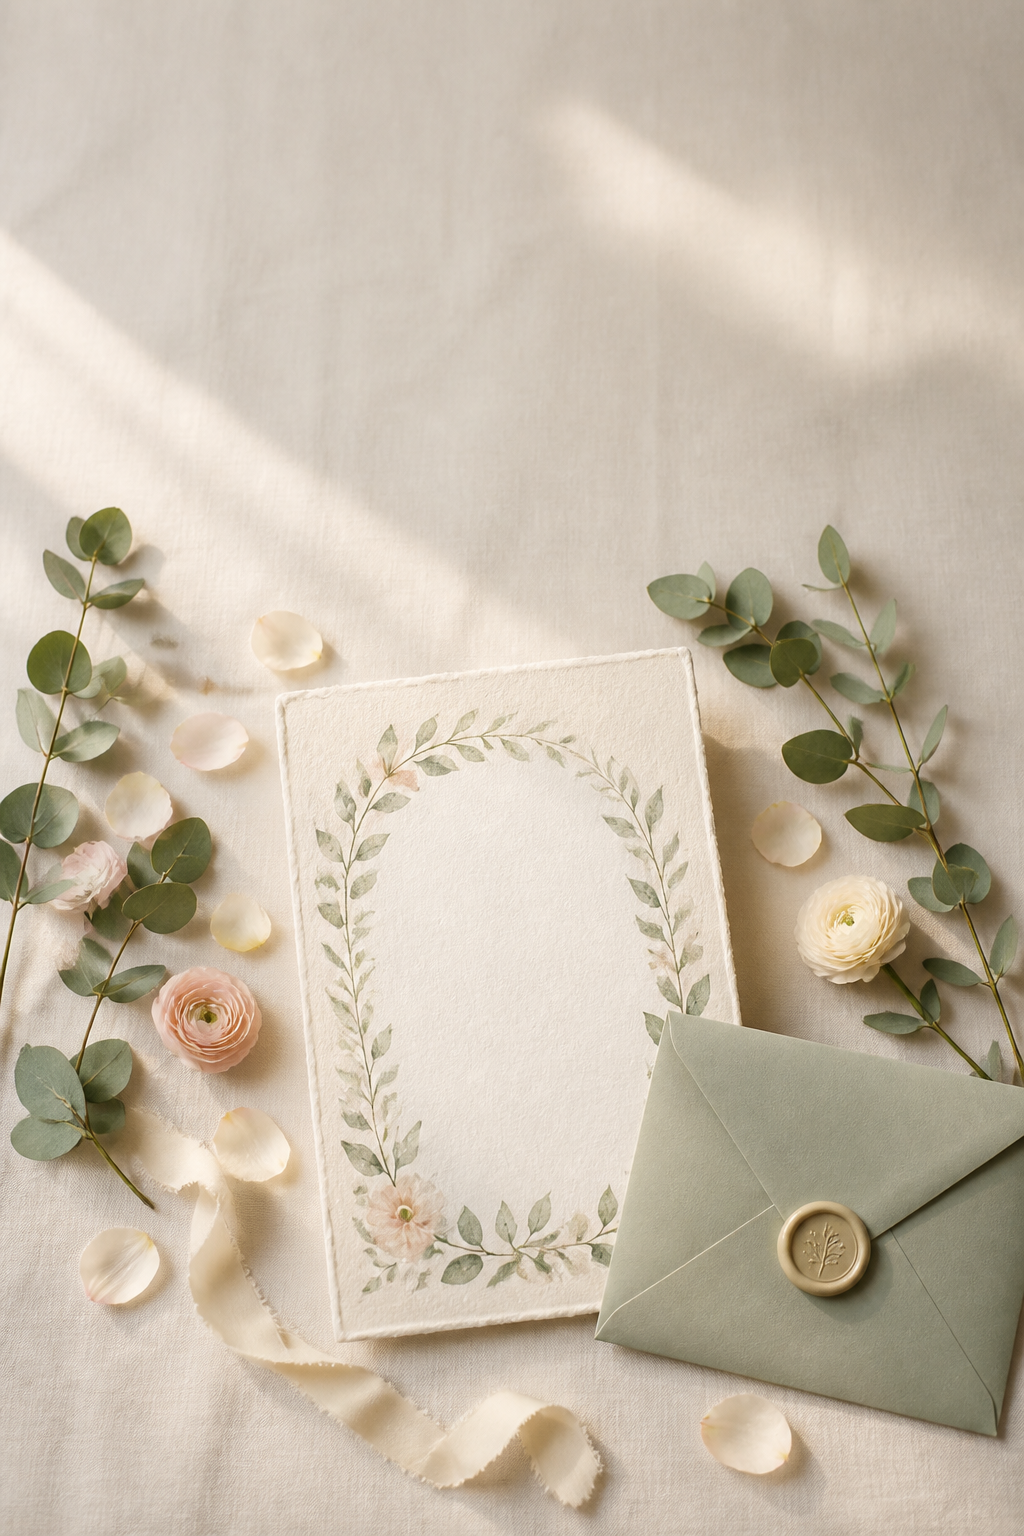
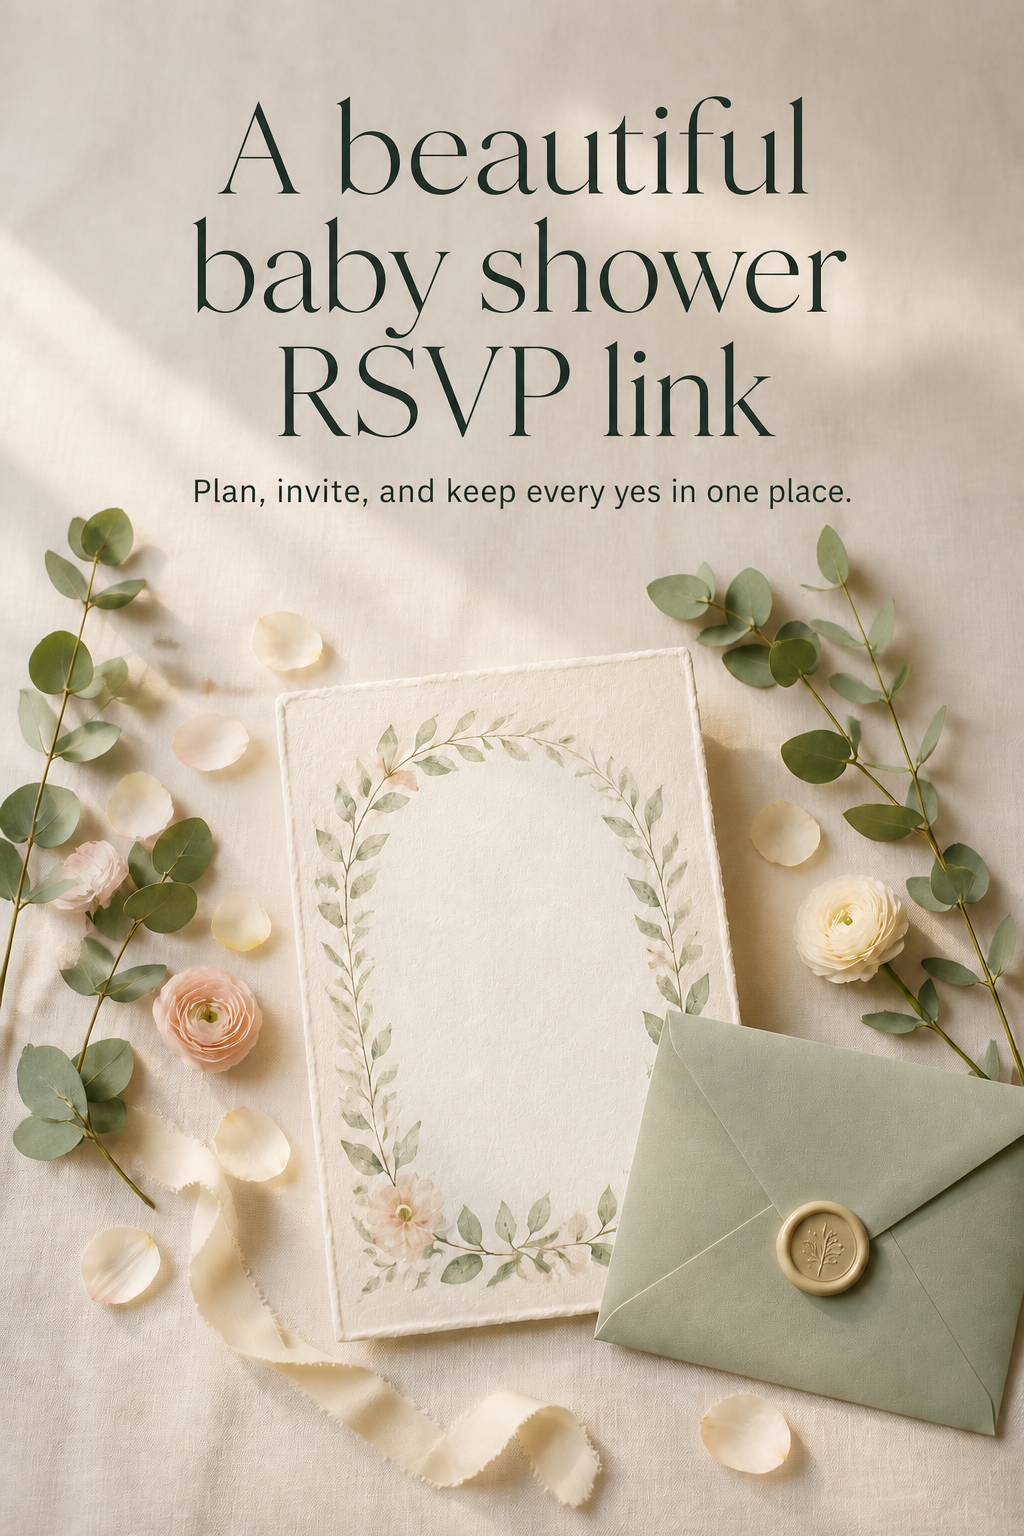
Finalize baby shower Pinterest creative

diff --git a/MARKETING_LAUNCH.md b/MARKETING_LAUNCH.md
@@ -2,7 +2,7 @@
 
 ## First Pinterest Pin
 
-**Image:** `public/pinterest-baby-shower-rsvp.png`
+**Image:** `public/pinterest-baby-shower-rsvp.png` (finished 1024×1536 Pin)
 
 Add this text in Canva over the open upper portion of the image:
 
@@ -51,3 +51,11 @@ Make three Pins from the same page over the next two weeks. Change only the head
 3. `Everything your baby shower guests need in one link`
 
 Each Pin points to the same focused landing page. This lets the landing page, not a DM conversation, do the selling.
+
+## Finished Pinterest creative
+
+All files are ready to upload directly to Pinterest at the recommended 2:3 aspect ratio:
+
+- `public/pinterest-baby-shower-rsvp.png` — lead pin: “A beautiful baby shower RSVP link”
+- `public/pinterest-baby-shower-rsvp-text-reminder.png` — alternate: “Stop chasing baby shower RSVPs by text”
+- `public/pinterest-baby-shower-rsvp-one-link.png` — alternate: “Everything your baby shower guests need in one link”
